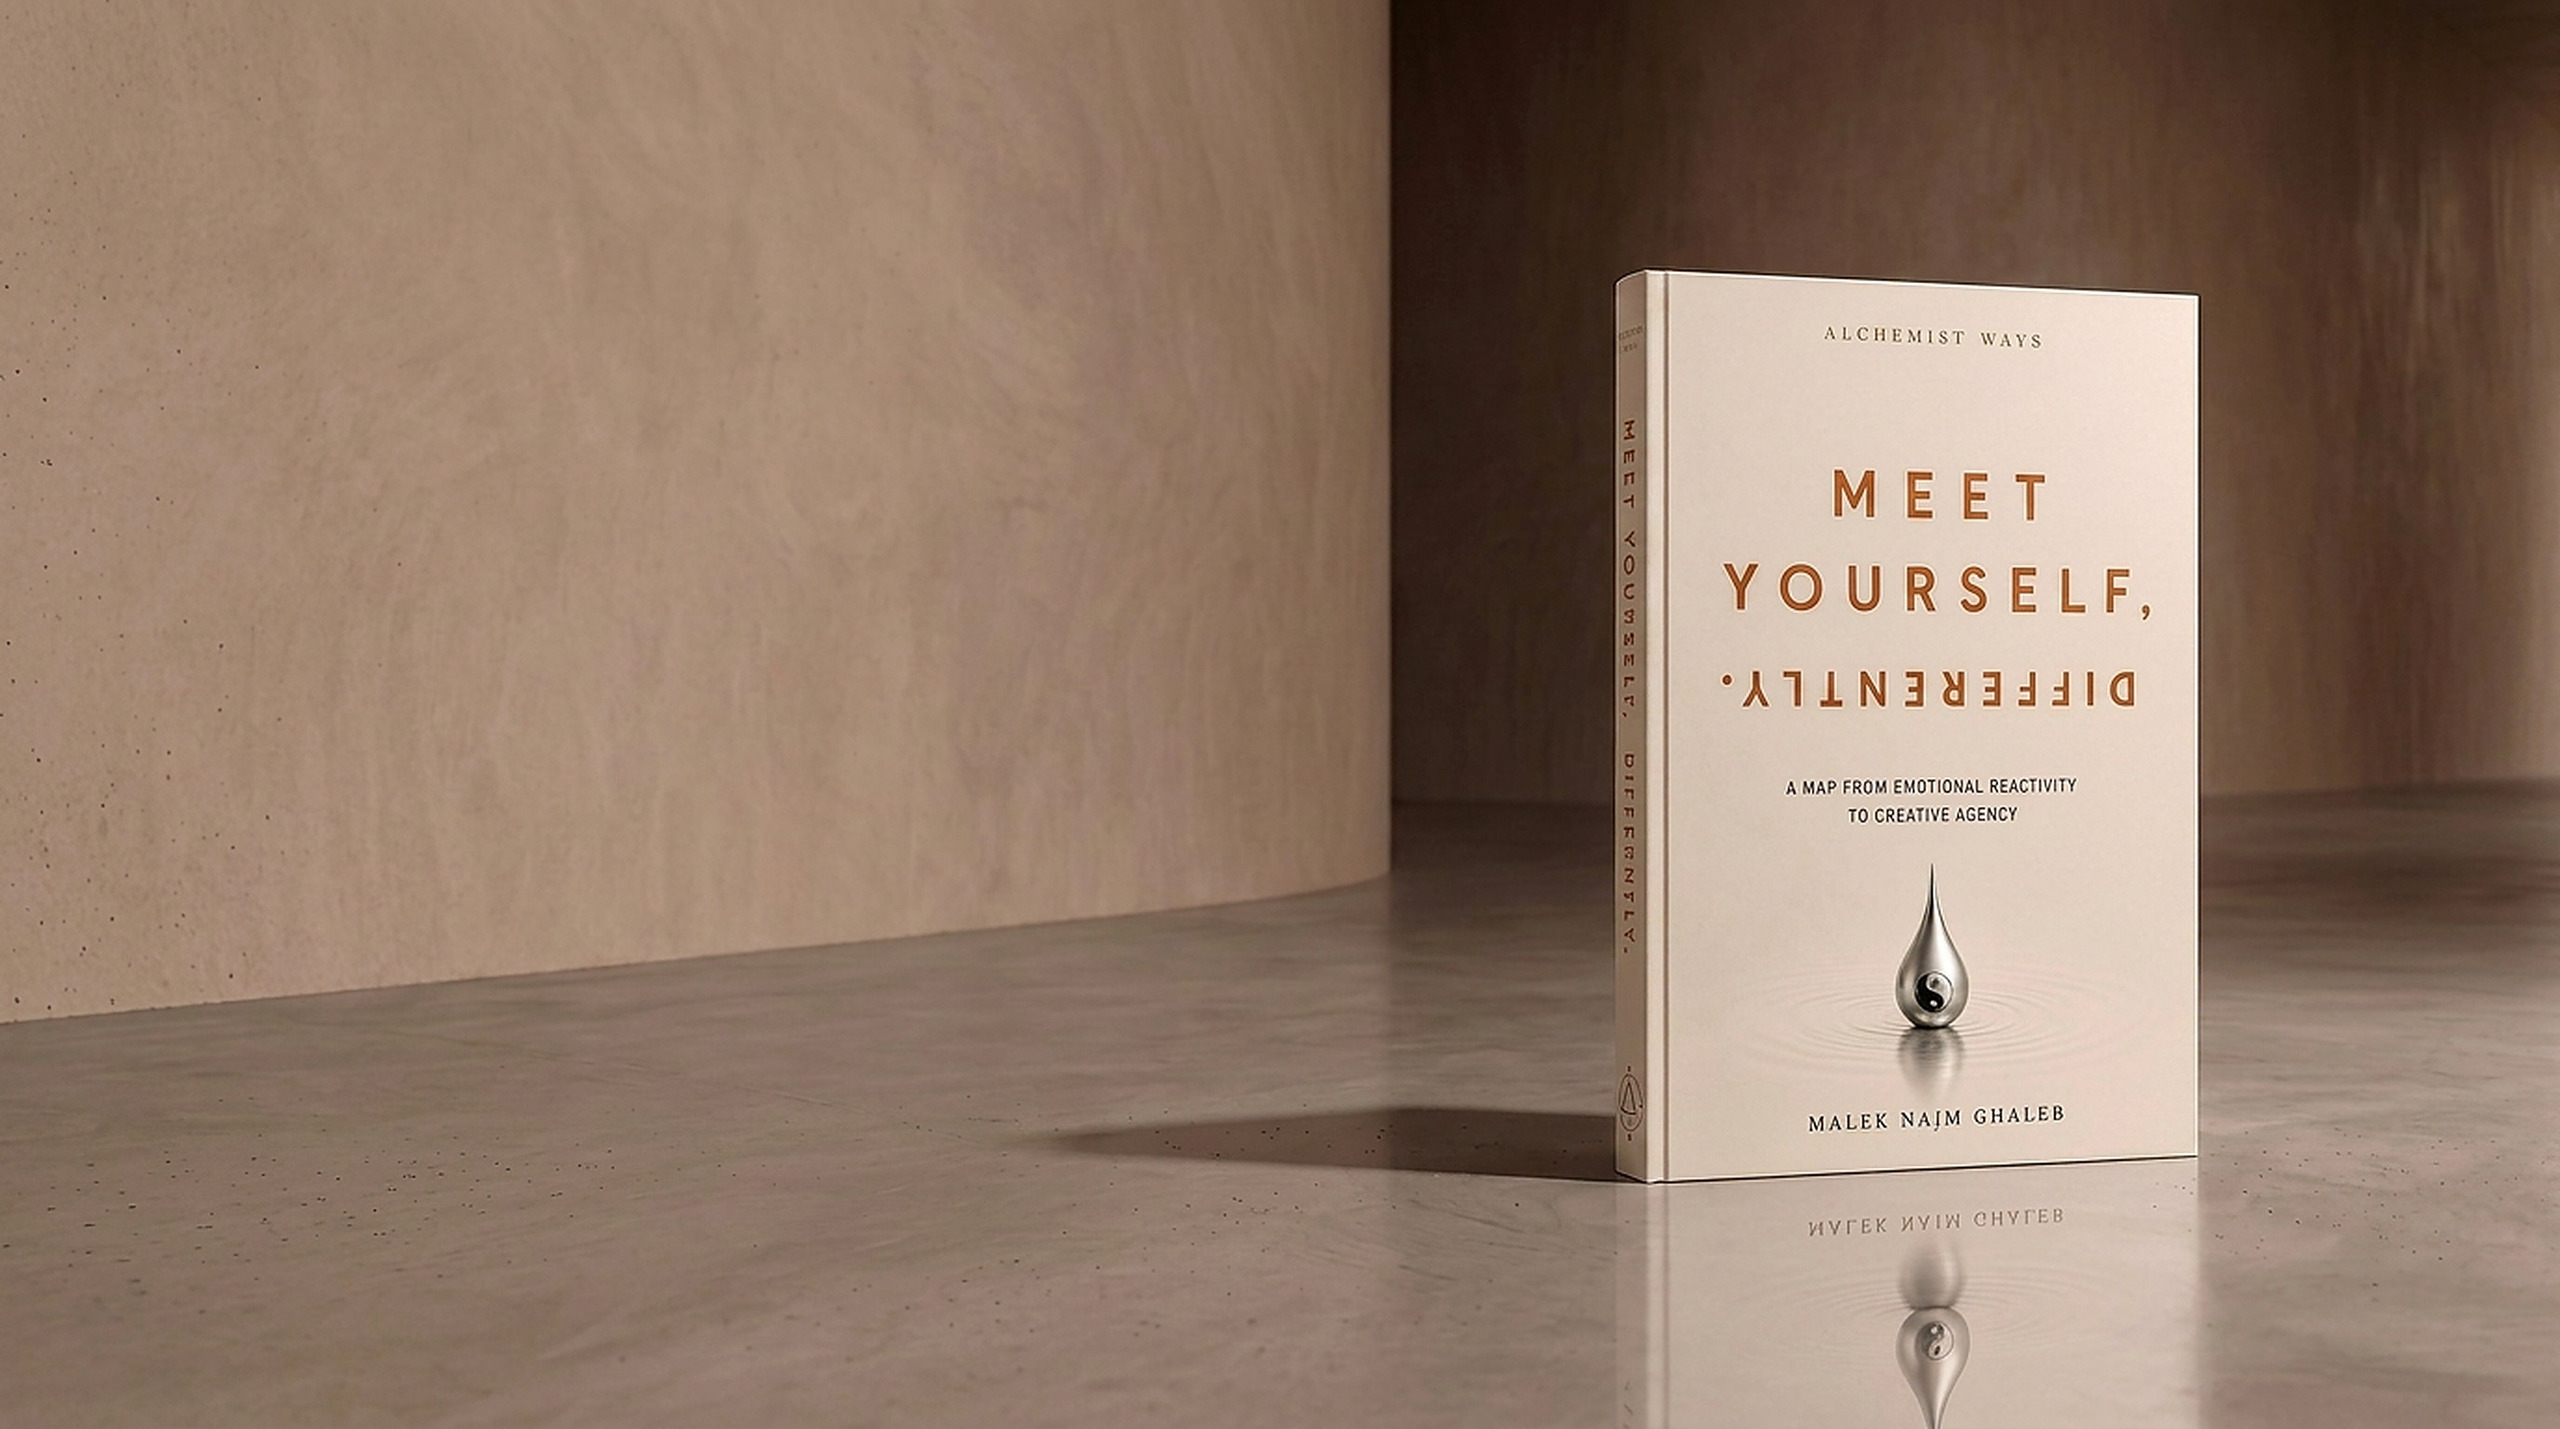
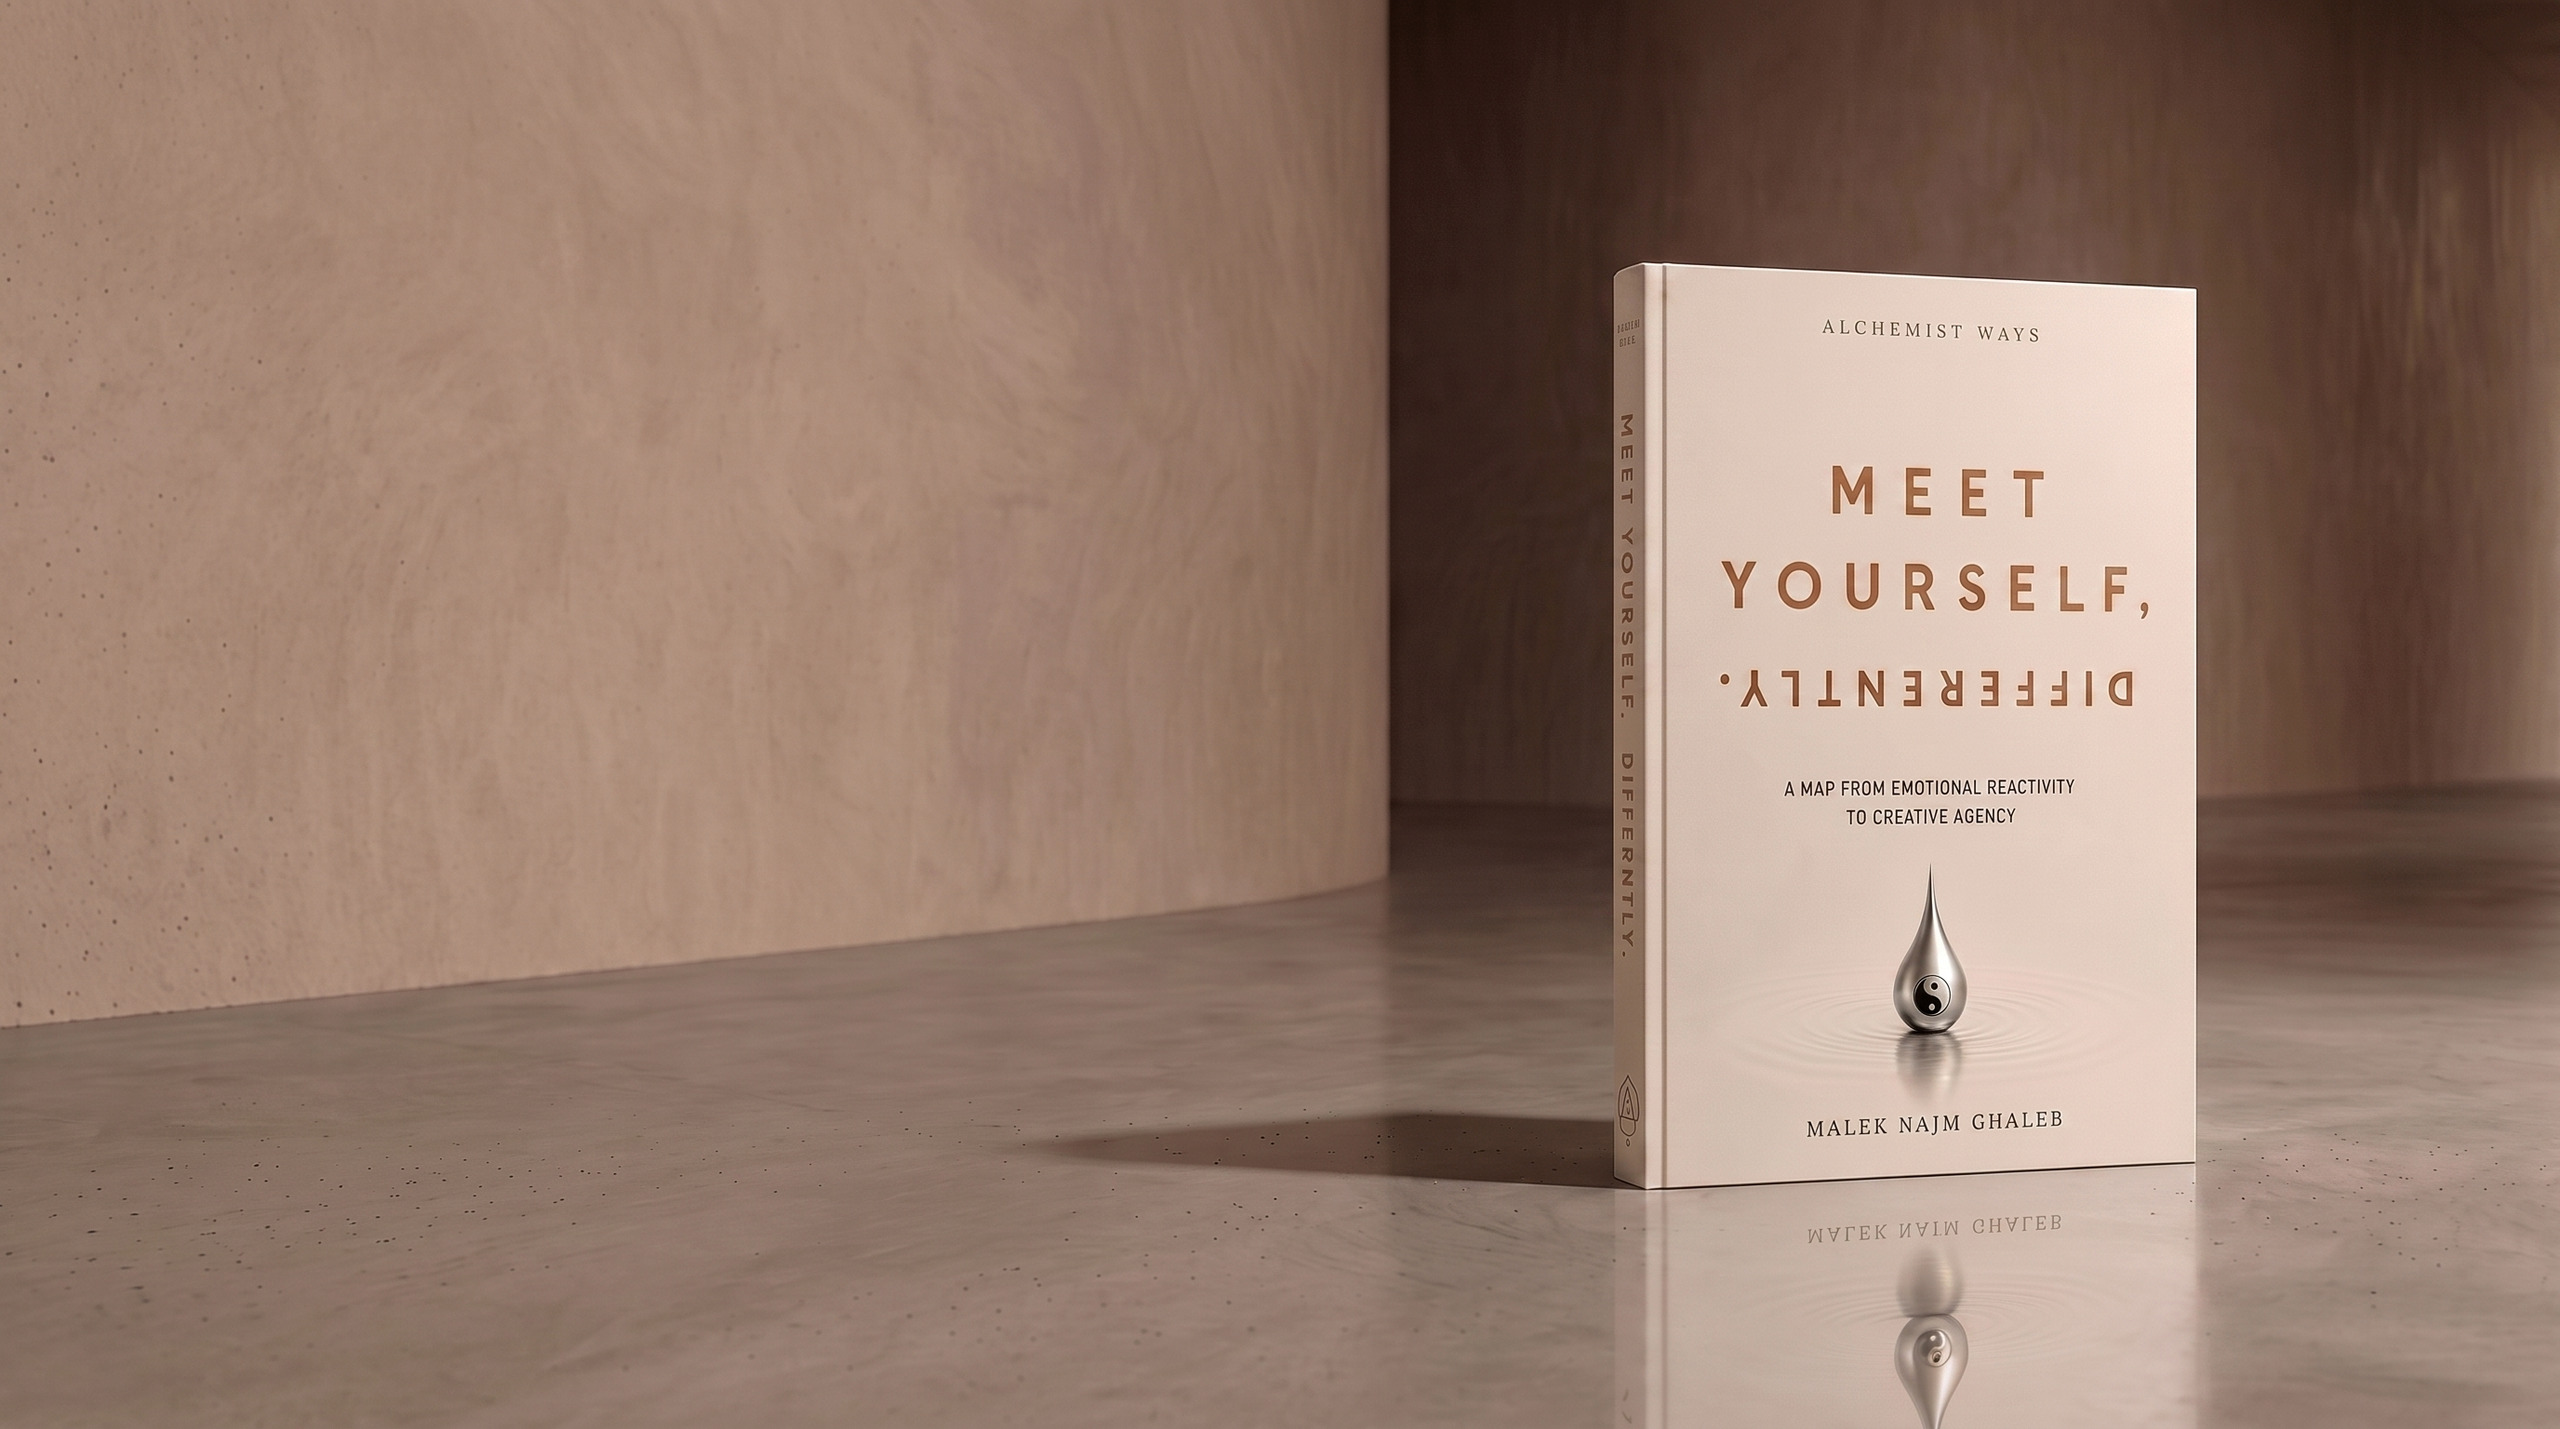
Ship native 2K corridor hero plate with honest encode ladder.
Regenerate letter-QA'd nano_banana_pro master, Lanczos-down plates to 2752 max (retire fake 4096), soften left wash, and lift mobile plate height.

diff --git a/src/routes/index.tsx b/src/routes/index.tsx
@@ -44,7 +44,7 @@ function LandingPage() {
 
         {/* Hero — Higgsfield book on the right; copy sits in the open left wall */}
         <section id="top" className="relative overflow-hidden bg-[#d4c4b0] md:min-h-[100svh]">
-          <div className="relative h-[min(48svh,420px)] w-full sm:h-[min(52svh,480px)] md:absolute md:inset-0 md:h-full">
+          <div className="relative h-[min(54svh,460px)] w-full sm:h-[min(56svh,520px)] md:absolute md:inset-0 md:h-full">
             <BookPlateImage
               priority
               alt="Meet Yourself, Differently. Alchemist Ways hardcover"
@@ -53,10 +53,10 @@ function LandingPage() {
               aria-hidden
               className="pointer-events-none absolute inset-x-0 bottom-0 h-24 bg-gradient-to-t from-background to-transparent md:hidden"
             />
-            {/* Soft left wash so copy stays legible without covering the book */}
+            {/* Soft left wash — longer, lower-contrast, matches plate bg to avoid banding */}
             <div
               aria-hidden
-              className="pointer-events-none absolute inset-y-0 left-0 hidden w-[min(48%,34rem)] bg-gradient-to-r from-[#cfc0ab]/75 via-[#cfc0ab]/25 to-transparent md:block"
+              className="pointer-events-none absolute inset-y-0 left-0 hidden w-[min(58%,40rem)] bg-[linear-gradient(to_right,rgb(212_196_176/0.55)_0%,rgb(212_196_176/0.28)_38%,rgb(212_196_176/0.10)_68%,transparent_100%)] md:block"
             />
           </div>
 
@@ -384,7 +384,7 @@ function LandingPage() {
           {/* The Book — full-bleed environment; copy left, book visible on right */}
           <Reveal className="mt-10 sm:mt-12">
             <div id="book" className="relative scroll-mt-28 overflow-hidden bg-[#d4c4b0]">
-              <div className="relative h-[min(46svh,400px)] w-full md:absolute md:inset-0 md:h-full">
+              <div className="relative h-[min(54svh,460px)] w-full md:absolute md:inset-0 md:h-full">
                 <BookPlateImage
                   alt="Meet Yourself, Differently. Hardcover standing in a sand corridor"
                   objectPositionClassName="object-[80%_48%] sm:object-[74%_48%] md:object-[70%_46%] lg:object-[64%_44%]"
@@ -395,7 +395,7 @@ function LandingPage() {
                 />
                 <div
                   aria-hidden
-                  className="pointer-events-none absolute inset-y-0 left-0 hidden w-[min(52%,36rem)] bg-gradient-to-r from-[#cfc0ab]/80 via-[#cfc0ab]/35 to-transparent md:block"
+                  className="pointer-events-none absolute inset-y-0 left-0 hidden w-[min(58%,40rem)] bg-[linear-gradient(to_right,rgb(212_196_176/0.50)_0%,rgb(212_196_176/0.26)_38%,rgb(212_196_176/0.10)_68%,transparent_100%)] md:block"
                 />
               </div>
 

diff --git a/src/components/BookPlateImage.tsx b/src/components/BookPlateImage.tsx
@@ -2,17 +2,17 @@ import plate960 from "@/assets/book-plate-960.jpg";
 import plate1280 from "@/assets/book-plate-1280.jpg";
 import plate1920 from "@/assets/book-plate-1920.jpg";
 import plate2560 from "@/assets/book-plate-2560.jpg";
-import plate4096 from "@/assets/book-plate-4096.jpg";
+import plate2752 from "@/assets/book-plate-2752.jpg";
 import plate960Webp from "@/assets/book-plate-960.webp";
 import plate1280Webp from "@/assets/book-plate-1280.webp";
 import plate1920Webp from "@/assets/book-plate-1920.webp";
 import plate2560Webp from "@/assets/book-plate-2560.webp";
-import plate4096Webp from "@/assets/book-plate-4096.webp";
+import plate2752Webp from "@/assets/book-plate-2752.webp";
 
-const JPG_SRCSET = `${plate960} 960w, ${plate1280} 1280w, ${plate1920} 1920w, ${plate2560} 2560w, ${plate4096} 4096w`;
-const WEBP_SRCSET = `${plate960Webp} 960w, ${plate1280Webp} 1280w, ${plate1920Webp} 1920w, ${plate2560Webp} 2560w, ${plate4096Webp} 4096w`;
+const JPG_SRCSET = `${plate960} 960w, ${plate1280} 1280w, ${plate1920} 1920w, ${plate2560} 2560w, ${plate2752} 2752w`;
+const WEBP_SRCSET = `${plate960Webp} 960w, ${plate1280Webp} 1280w, ${plate1920Webp} 1920w, ${plate2560Webp} 2560w, ${plate2752Webp} 2752w`;
 
-/** Full-bleed book-in-corridor plate — responsive JPEG + WebP for phone → 4K. */
+/** Full-bleed book-in-corridor plate — responsive JPEG + WebP from native 2K master (2752). */
 export function BookPlateImage({
   alt,
   priority = false,
@@ -30,8 +30,8 @@ export function BookPlateImage({
       <img
         src={plate1920}
         alt={alt}
-        width={4096}
-        height={2286}
+        width={2752}
+        height={1536}
         sizes="100vw"
         decoding="async"
         fetchPriority={priority ? "high" : undefined}

diff --git a/docs/CHANGELOG.md b/docs/CHANGELOG.md
@@ -1,5 +1,15 @@
 # Changelog
 
+## Hero plate quality pipeline — native 2K master (branch1)
+
+- Regenerated corridor hero with `nano_banana_pro` **2k** (job `436a1b03`); front cover letter-QA’d; rejected NSFW sibling; optional 4K blocked (Plus)
+- Lossless master: `src/assets/scenes/hf-corridor-hero-master.png` (2752×1536)
+- Encode ladder Lanczos-down only: `book-plate-{960,1280,1920,2560,2752}.{jpg,webp}` JPEG q92 4:4:4 / WebP q92 — retired fake `4096` plates
+- `BookPlateImage` srcset widths match native max (2752w)
+- Softer left wash (`#d4c4b0` multi-stop) + taller mobile plate (`min(54–56svh)`) on hero + The Book
+
+---
+
 ## Gallery image edge dissolve (branch1)
 
 - `SceneImage` blend uses a four-edge CSS mask so mid-page book stills fade into cream with no hard square crop

diff --git a/docs/BRAND.md b/docs/BRAND.md
@@ -49,7 +49,7 @@ See also: [DESIGN-PRINCIPLES.md](DESIGN-PRINCIPLES.md) for distinctive-design cr
 
 ## Assets
 
-- Responsive book plate: `src/assets/book-plate-{960…4096}.{jpg,webp}` (corridor hero; keep unless a superior native 2k/4k plate lands)
+- Responsive book plate: `src/assets/book-plate-{960…2752}.{jpg,webp}` from native `nano_banana_pro` **2k** master (`hf-corridor-hero-master.png`, 2752×1536) — no fake 4096 upscale
 - Mid-page scenes (native Higgsfield `nano_banana_pro` **2k**, 2752×1536): `src/assets/scene-gallery.{jpg,webp}` (gallery standing-book), `src/assets/scene-droplet.{jpg,webp}`, optional archive `scene-closeup.{jpg,webp}` — masters `src/assets/scenes/hf-*.png`
 - About portrait: `src/assets/malek-portrait.jpg`
 - Brand mark: `public/brand/ac-logo.png`
